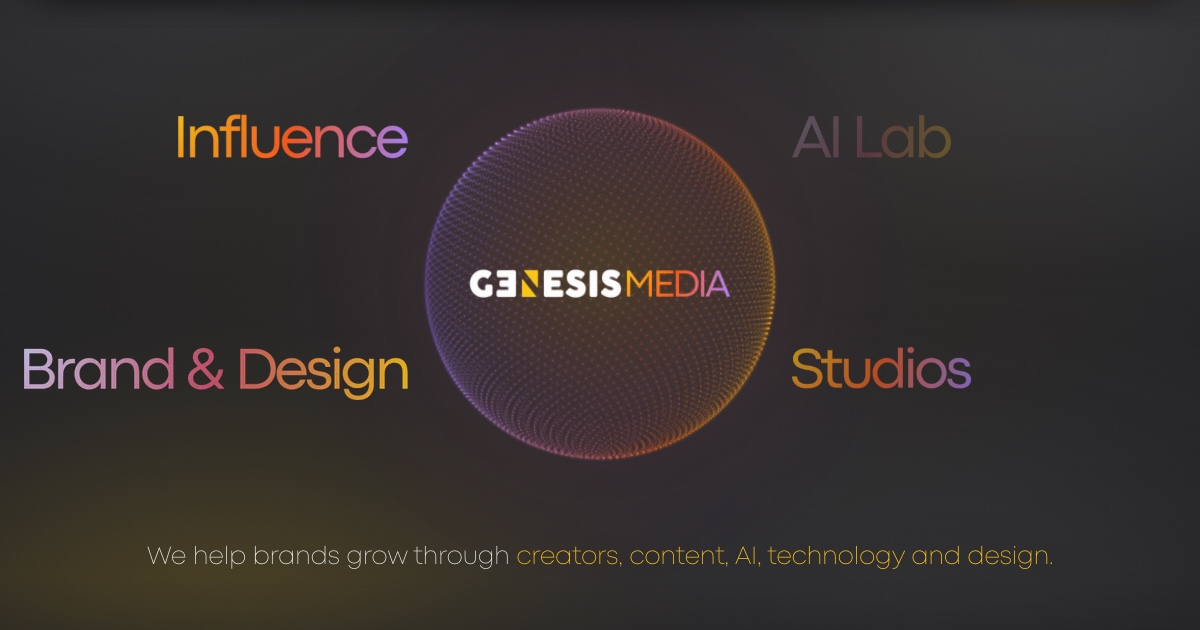
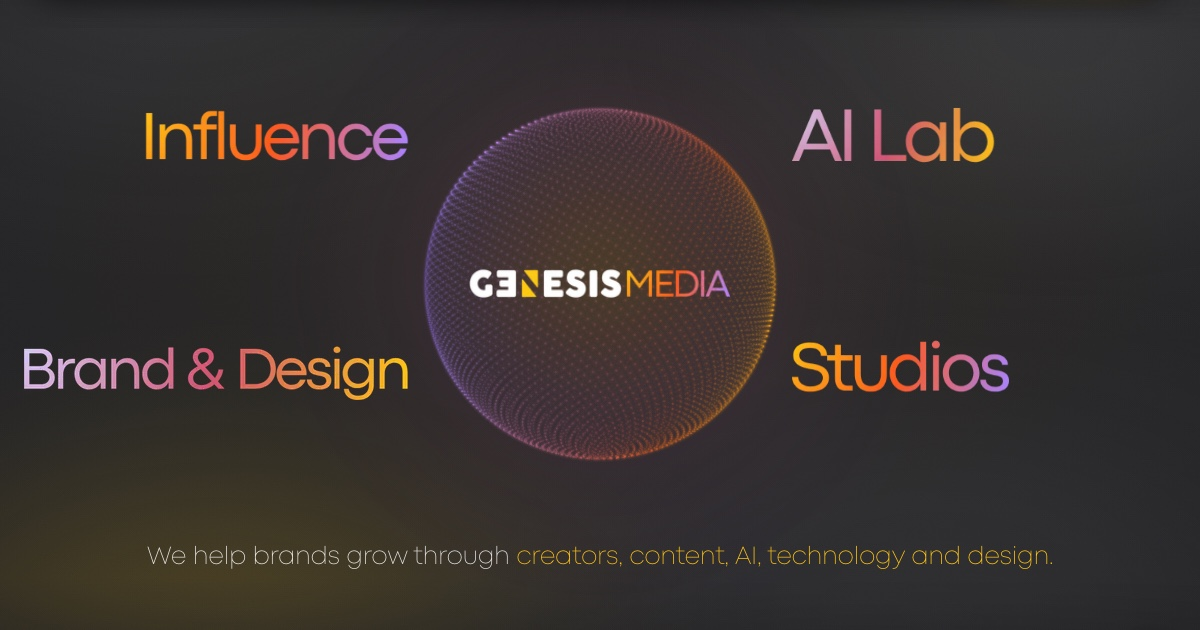
fix(brain): AI Lab stops disappearing — size the marks by ink, not height
"AI Lab kyu chup gaya." It was measured before it was changed, and the
obvious explanations are all wrong. Composited over the page's own ground at
display size, the four marks' mean ink luminance is 138, 128, 138 and 140 —
AI Lab is not darker. Its artwork is not weaker either: per opaque pixel its
colour is within a point of Brand & Design's.

What differs is how much of it there is. At a common height the four cover
1894, 1472, 1226 and 3171 square pixels of ink — "AI Lab" is two short words
and carries a quarter of what "Brand & Design" does. Same height, same
colour, a third of the presence; shrunk to a share card two inches wide, the
smallest one is the one that vanishes.

EQUAL HEIGHT IS THE WRONG KIND OF EQUAL, which this codebase already knew:
the client logo wall sizes each mark so that "every logo ends up covering a
comparable area — which is what the eye reads as the same size". The Brain
was the one place still normalising height alone.

Half compensation, not full: area goes as the square of scale, so equalising
it outright would stand AI Lab 61% taller than Brand & Design, which is a
different mistake. A quarter power closes half the gap — AI Lab comes up 27%
and the row still reads as one set. It also answers Genesis's older note, "AI
Lab ka logo shd be bigger", which the height-uniform pass had overridden.

The share card is re-shot from the corrected page. No overflow at 375px.

diff --git a/components/genesis/division-lockup.tsx b/components/genesis/division-lockup.tsx
@@ -224,6 +224,58 @@ const NAME_MAX_RATIO = Math.max(
   ...Object.values(NAME).map((l) => l.width / l.height),
 );
 
+/**
+ * HOW MUCH INK EACH NAME CARRIES, relative to the heaviest — and why the four
+ * are not set at the same height any more.
+ *
+ * GENESIS: "AI Lab kyu chup gaya." On the Brain, and most visibly in the
+ * share card where the whole thing is two inches wide, AI Lab reads as
+ * faded next to the other three. It was measured before being changed, and
+ * the obvious explanations are all wrong: composited over the page's own
+ * ground at display size, the four marks' mean ink luminance is 138, 128,
+ * 138 and 140 — AI Lab is not darker. Its ARTWORK is not weaker either; per
+ * opaque pixel its colour is within a point of Brand & Design's.
+ *
+ * What differs is how much of it there is. At a common height the four cover
+ * 1894, 1472, 1226 and 3171 square pixels of ink: "AI Lab" is two short words
+ * and carries a QUARTER of what "Brand & Design" does. Same height, same
+ * colour, a third of the presence — and shrunk to a thumbnail the smallest
+ * one is the one that disappears.
+ *
+ * EQUAL HEIGHT IS THE WRONG KIND OF EQUAL, which this codebase already knows:
+ * the client logo wall sizes each mark so that "every logo ends up covering a
+ * comparable area — which is what the eye reads as the same size" (see
+ * client-logos). The Brain was the one place still normalising height alone.
+ *
+ * HALF COMPENSATION, NOT FULL. Area goes as the square of the scale, so
+ * equalising it outright would stand AI Lab 61% taller than Brand & Design —
+ * a two-word name towering over a three-word one, which is a different
+ * mistake. The exponent below is a quarter rather than a half, which closes
+ * half the gap in perceived size: AI Lab comes up about 27% on Brand & Design
+ * and the row still reads as one set. It also answers Genesis's older note,
+ * "AI Lab ka logo shd be bigger", which the height-uniform pass overrode.
+ *
+ * The numbers are measured, not guessed: each PNG drawn at its display size,
+ * alpha summed over every pixel. Re-measure if the artwork is re-cut.
+ */
+const NAME_INK: Record<string, number> = {
+  Influence: 1894,
+  Studios: 1472,
+  "AI Lab": 1226,
+  "Brand & Design": 3171,
+};
+
+const NAME_INK_MAX = Math.max(...Object.values(NAME_INK));
+
+/** See NAME_INK. A quarter power closes half the gap in area. */
+const INK_COMPENSATION = 0.25;
+
+function inkScale(name: string): number {
+  const ink = NAME_INK[name];
+  if (!ink) return 1;
+  return (NAME_INK_MAX / ink) ** INK_COMPENSATION;
+}
+
 export function DivisionLockup({
   name,
   tagline,
@@ -379,8 +431,18 @@ export function DivisionLockup({
     the same variable rather than computed here in pixels.
   */
   const lockupH = height === TARGET_HEIGHT ? "var(--lockup-h)" : `${height}px`;
+  /*
+    THE SHARE OF THE COLUMN, lifted for the lighter marks — see NAME_INK.
+    Only the name set is compensated: the board and mark sets carry the
+    GENESIS prefix, which is the same width in all four, so they do not have
+    the imbalance this corrects.
+  */
   const sizing = fluid
-    ? { width: `${((ratio / maxRatio) * 100).toFixed(3)}%` }
+    ? {
+        width: `${(
+          (ratio / maxRatio) * 100 * (nameOnly ? inkScale(name) : 1)
+        ).toFixed(3)}%`,
+      }
     : {
         maxWidth: `calc(${ratio.toFixed(3)} * ${lockupH})`,
         /*
